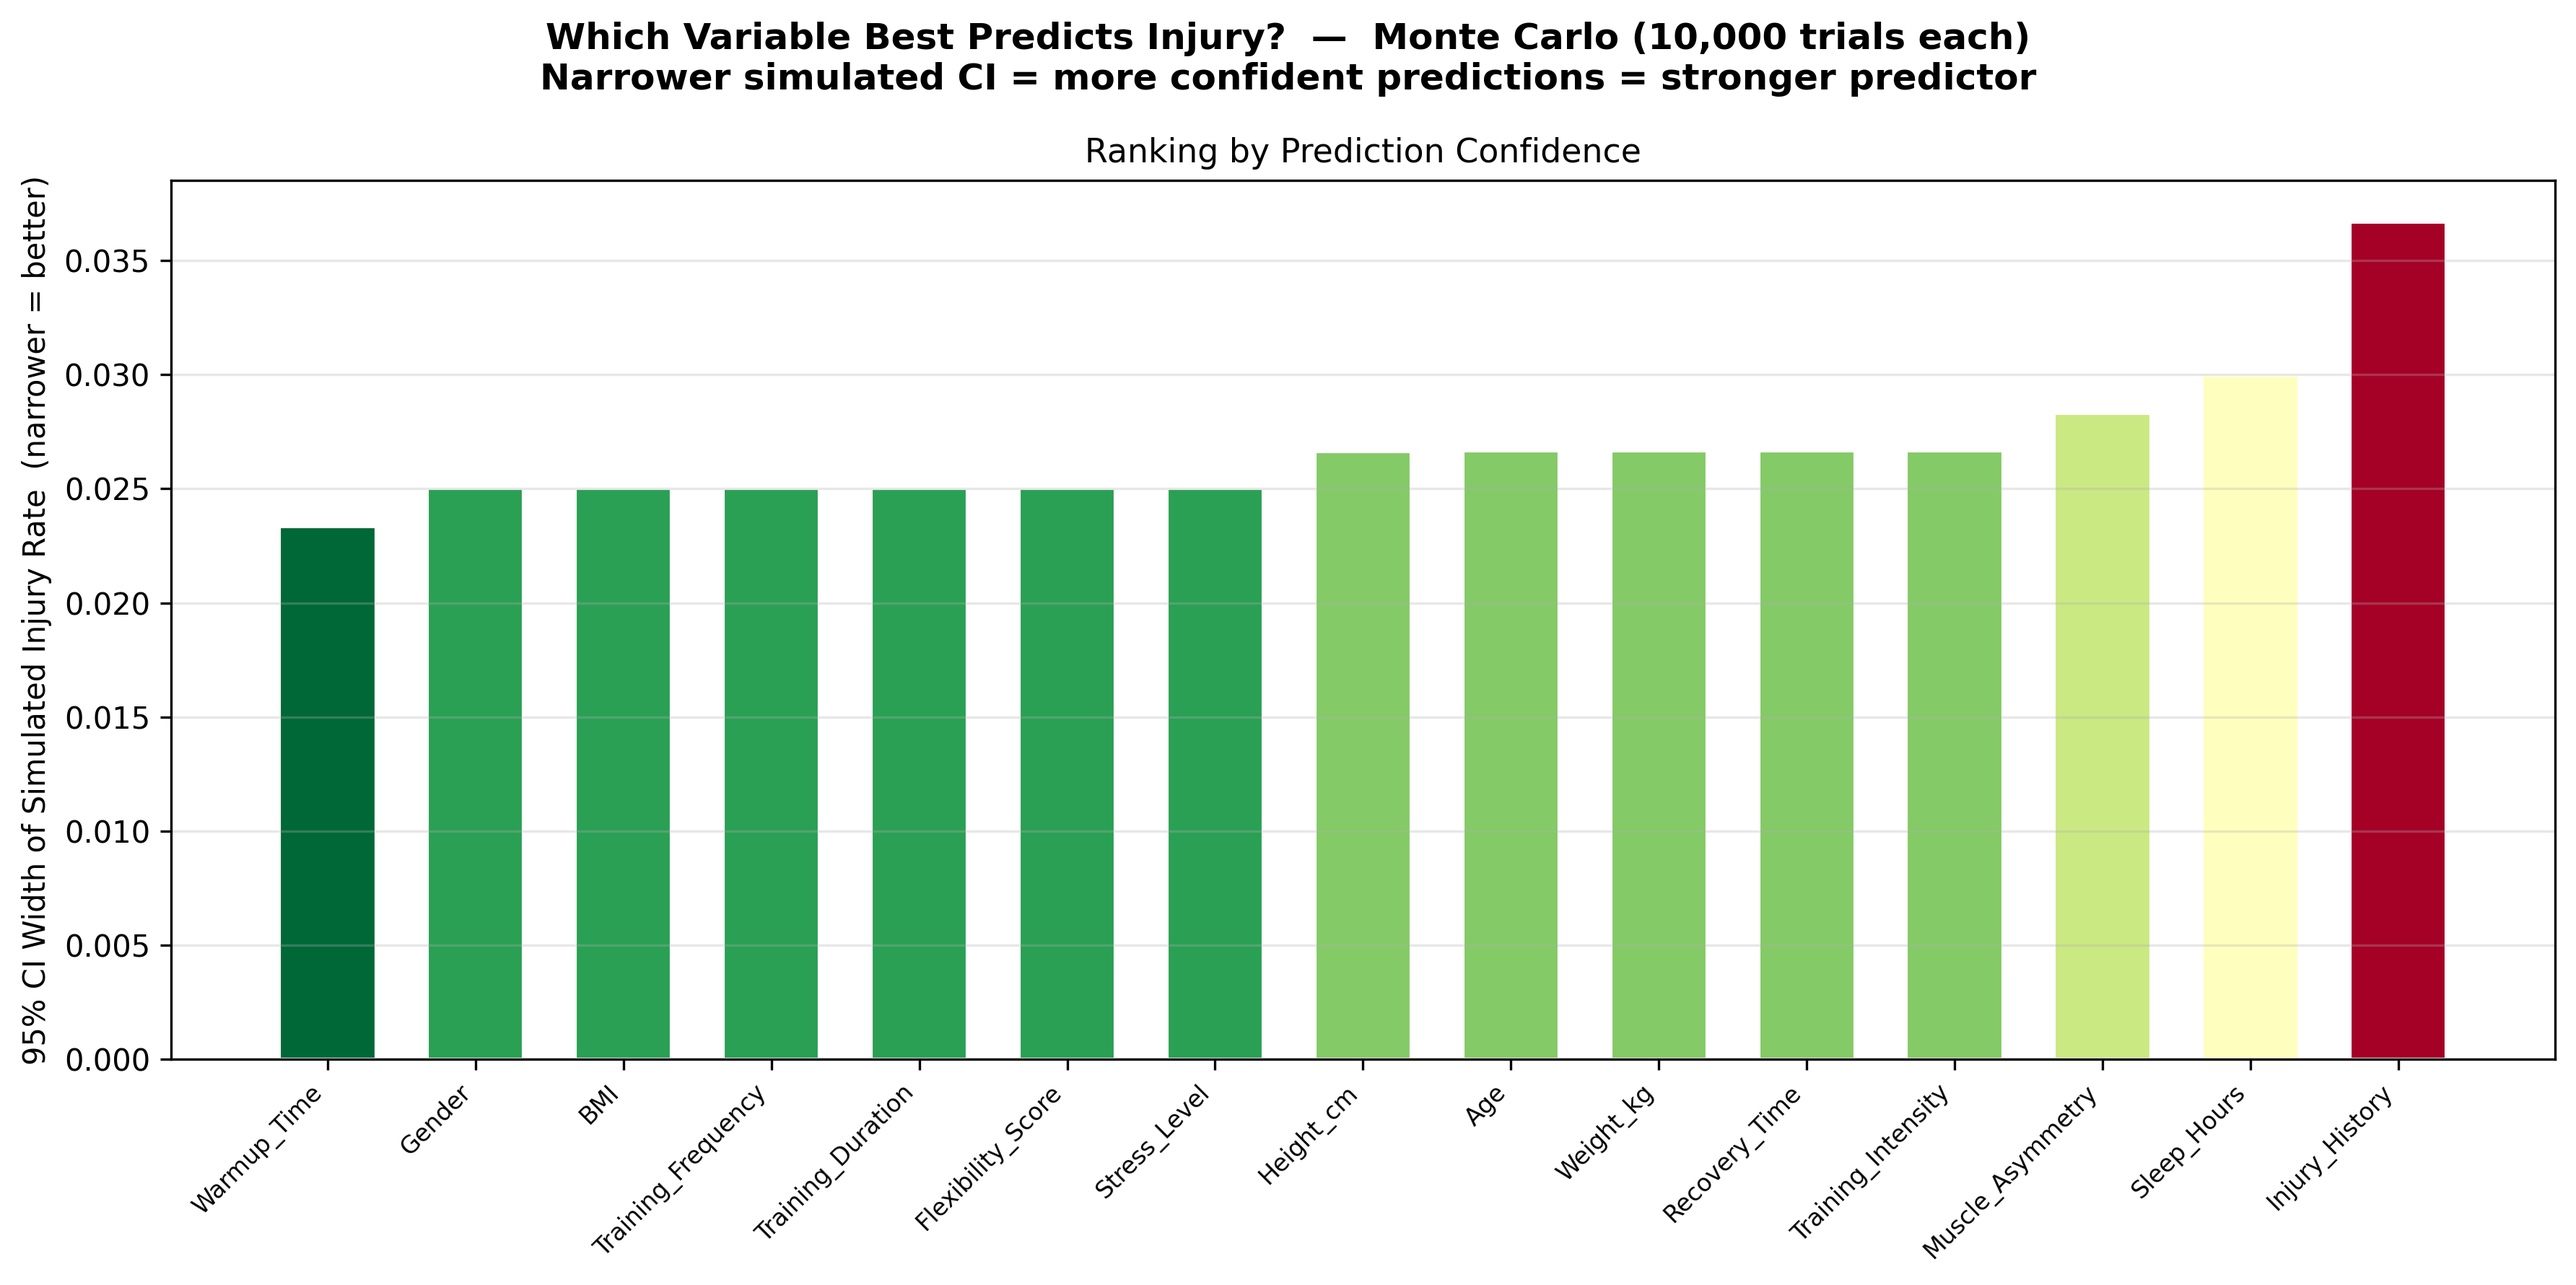
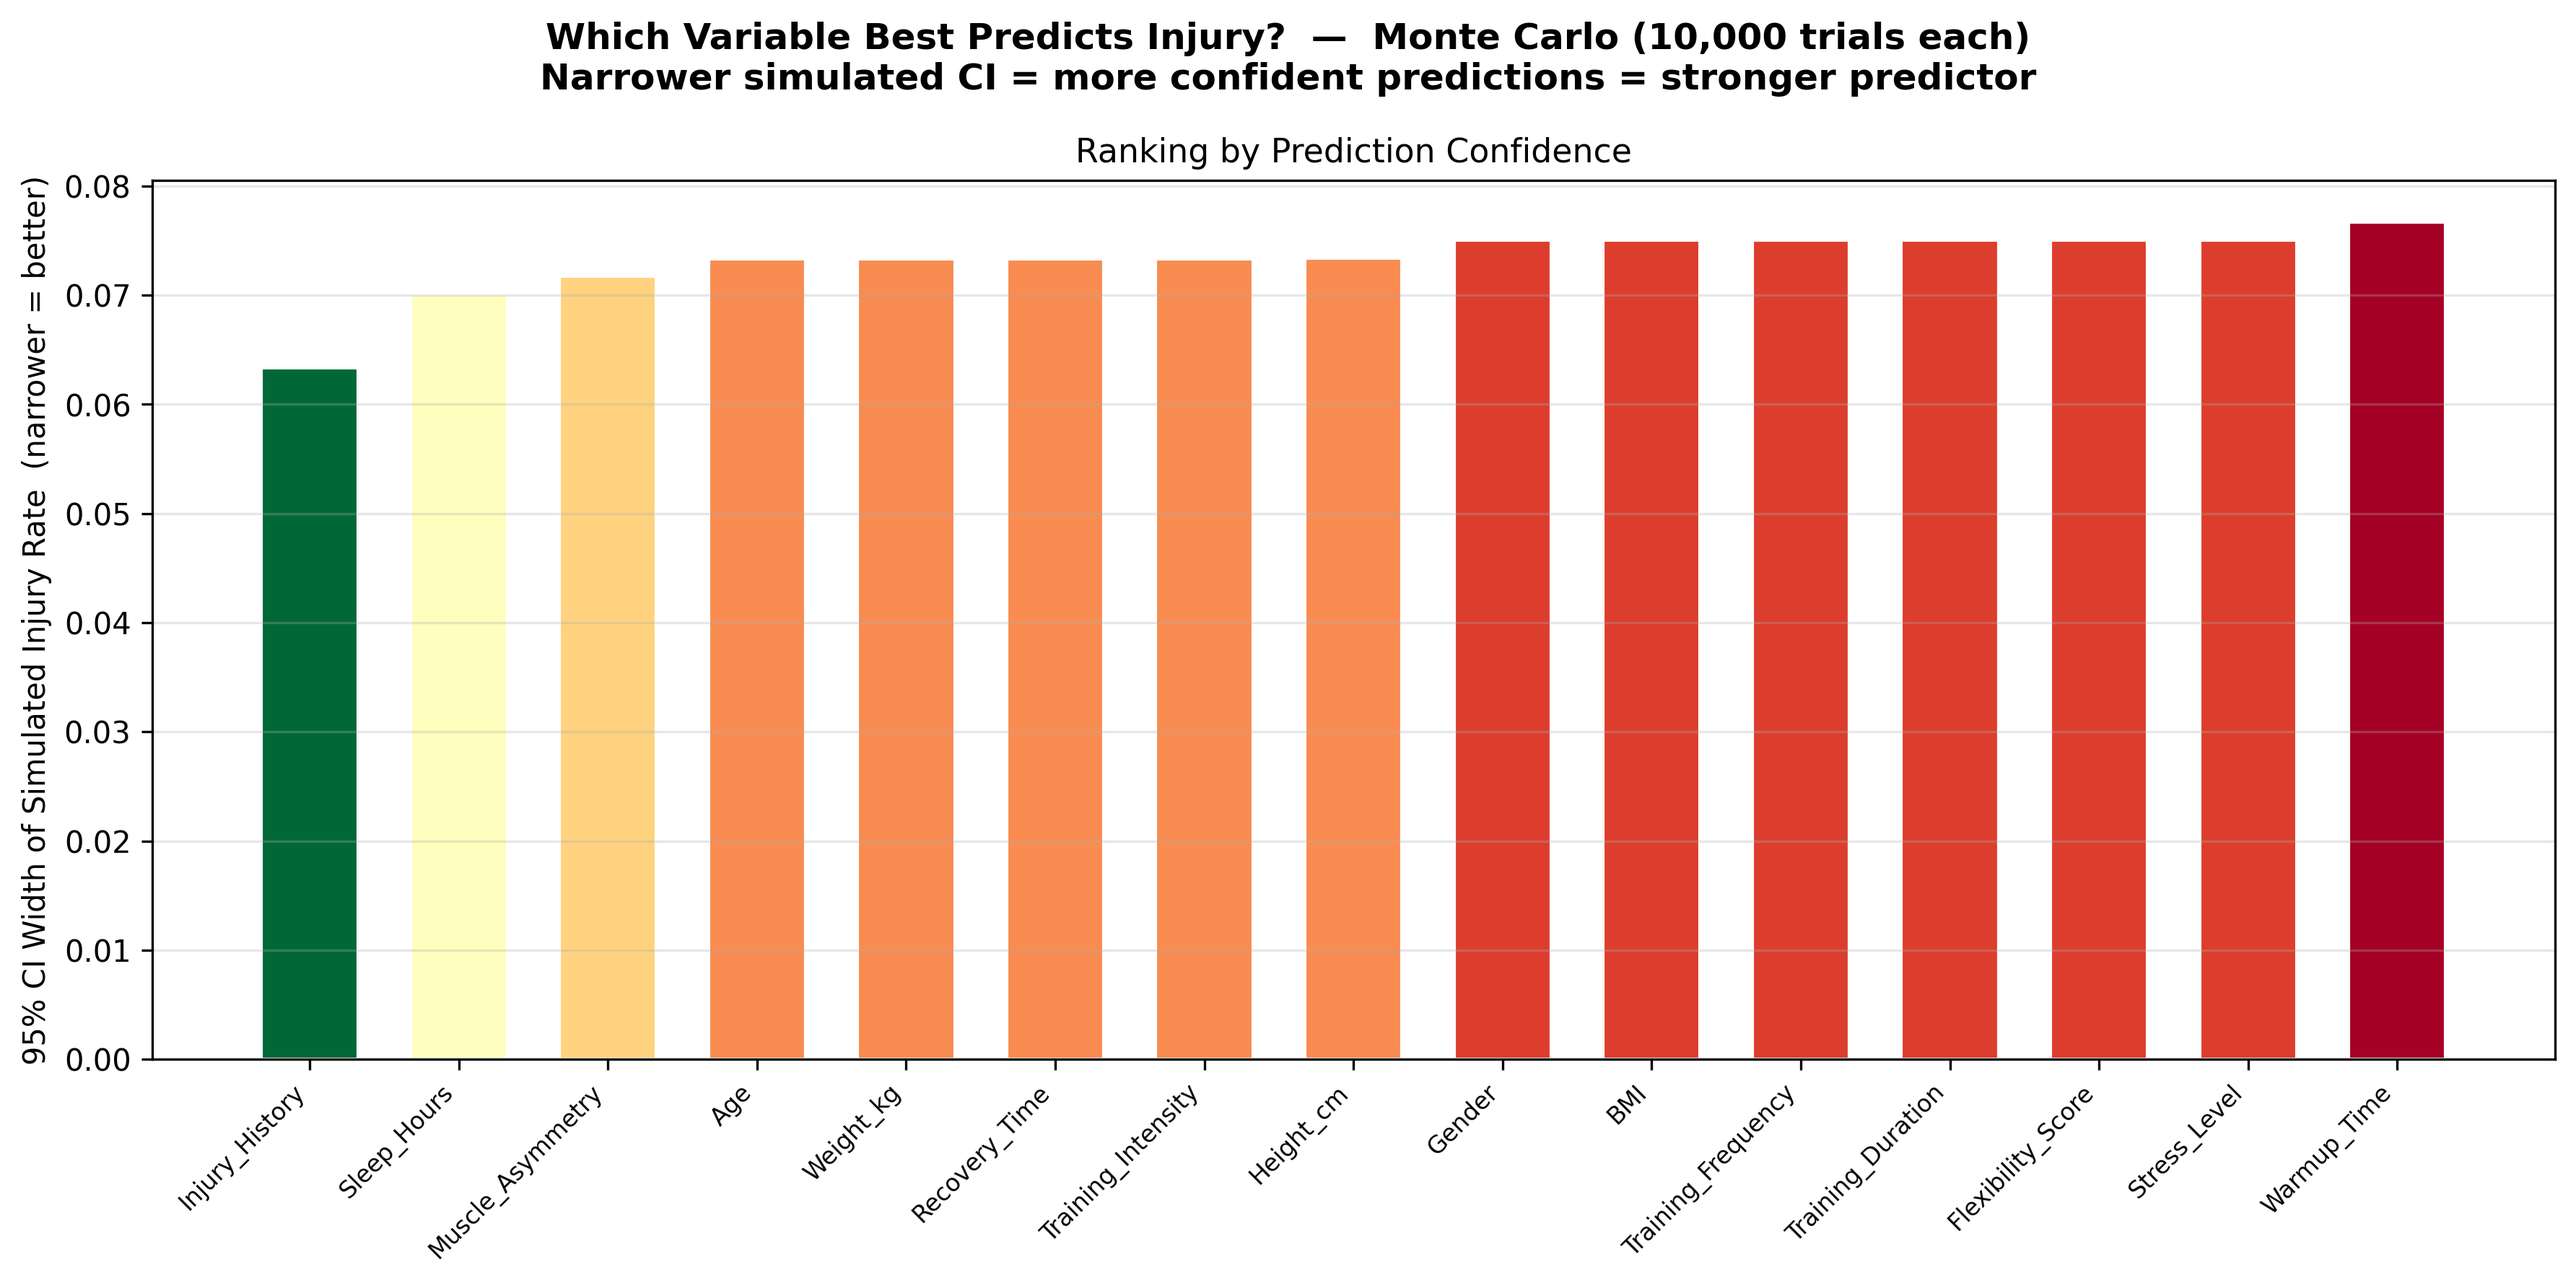
final as of may 14

diff --git a/feature_importance.py b/feature_importance.py
@@ -45,7 +45,7 @@ for feat in FEATURES:
     results[feat] = dict(
         mean=mc.mean(),
         lo=lo, hi=hi,
-        width=.1 - (hi - lo),
+        width=(hi - lo),
         mc=mc,
     )
 
@@ -79,7 +79,7 @@ colors = [cmap(norm(w)) for w in widths]
 fig, ax = plt.subplots(figsize=(12, 6))
 fig.suptitle(
     f'Which Variable Best Predicts Injury?  —  Monte Carlo ({N_RUNS:,} trials each)\n'
-    f'Narrower simulated CI = more confident predictions = stronger predictor',
+    f'Wider simulated CI = predictor separates injured from uninjured athletes = stronger signal',
     fontsize=12, fontweight='bold'
 )
 
